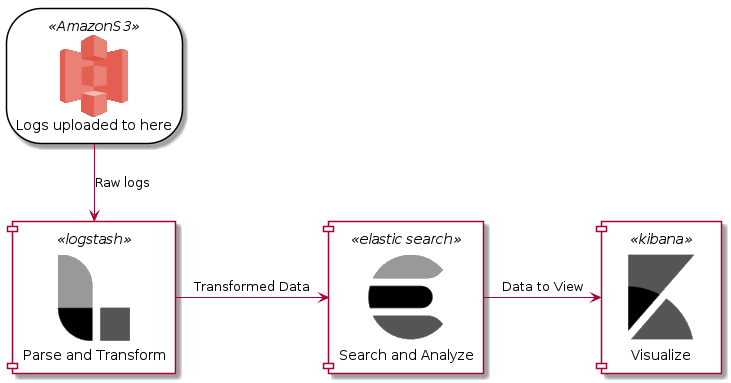
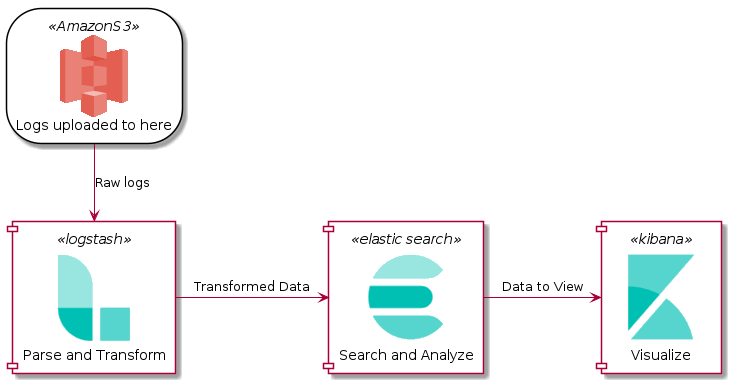
ElasticGreenForeground

Changed region(s): [[0.8427, 0.6606, 0.9631, 0.8903], [0.4815, 0.6606, 0.6019, 0.8903], [0.0602, 0.6606, 0.1806, 0.8903]]

diff --git a/README.md b/README.md
@@ -1,8 +1,10 @@
-# PlantUML  Elastic Icons
+# PlantUML  Elastic Sprites
 Sprites from [elastic](www.elastic.co) for use with PlantUML:
 1. here to share with kind permission from the nice guys at Elastic community team. Thanks to Max, David, Phillip for prompt feedback!
 2. original logos in svg format from Elastic [here](https://www.elastic.co/brand). See the [Interesting Elastic story behind these icons](https://www.elastic.co/blog/redesigning-product-logos-and-icons-while-building-a-design-hierarchy-at-elastic).
 
+
+# Using PlantUML Elastic Sprites
 
 ## Demo
 
@@ -24,15 +26,15 @@ ElasticSearch -right-> Kibana: Data to View
 
 ````
 
+## Full Sprite Set
+
+![](examples/All.png)
+
+See full source ./All.puml
 
 
 
 
-
-
-I wanted to architect and draw a system that use Elastic products in AWS.
-
-Plantuml sprites for creating diagrams with Elastic components.
 
 
 
@@ -71,9 +73,17 @@ mv  ./dist/elastic ../../plantuml-elastic
 ```
 
 # PlantUML Sprite Colors
-Sprites are monochrome per https://plantuml.com/sprite
+Sprites are monochrome per https://plantuml.com/sprite.
+
 Elastic icons are multi-color.
 
+It's useful to identify Elastic sprites by color (versus e.g. AWS sprites) e.g.
+* Elastic Green Background with Black Foreground
+* Elastic Green Foreground with While Background
+
+I opted for the latter as it looked better.
+
+## Background Color
 If desired, the background color can be changed e.g. so it's easier to see Elastic products versus AWS products in a diagram.
 
 This can be done in the plantuml source file via
@@ -86,3 +96,6 @@ logo-elastic-search-color-64.svg
 ````
         <path d="M47.7246,44.293 L47.7276,44.299 C42.7746,50.227 35.3286,54.001 26.9996,54.001 C16.4006,54.001 7.2326,47.889 2.8136,39.001 L38.0056,39.001 C40.5306,39.001 42.9886,39.871 44.9206,41.497 C45.9246,42.342 46.8636,43.262 47.7246,44.293" id="Fill-6" fill="#00BFB3"></path>
 ````
+
+## Foreground Color
+Search and replace "black" with "00BFB3" in all puml files.
